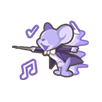
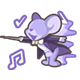
docs(characters): add 音乐家杰瑞 character

diff --git a/src/data/mouseCharacters.ts b/src/data/mouseCharacters.ts
@@ -1326,6 +1326,173 @@ const mouseCharacterDefinitions: Record<string, CharacterDefinition> = {
     ],
   },
 
+  /* ----------------------------------- 音乐家杰瑞 ----------------------------------- */
+  音乐家杰瑞: {
+    description:
+      '他是艺术的宠儿，音乐家杰瑞拥有优雅帅气的外表，他精湛的技艺能够指挥乐队演绎世界上最华丽的乐章，那些或舒缓、或激昂的音乐不断撩动观众的心弦，激起人们内心深处的灵魂共鸣。',
+    maxHp: 99,
+    attackBoost: 10,
+    hpRecovery: 1,
+    moveSpeed: 600,
+    jumpHeight: 400,
+    cheesePushSpeed: 3.5,
+    wallCrackDamageBoost: 1,
+    mousePositioningTags: [
+      {
+        tagName: '救援',
+        isMinor: false,
+        description: '可利用二级被动快速将老鼠救下火箭。',
+        additionalDescription: '但在此期间容易吃到控制导致礼服被断。',
+      },
+      {
+        tagName: '干扰',
+        isMinor: false,
+        description: '利用一级被动可以造成大量伤害和拦截猫上火箭。',
+        additionalDescription: '被知识卡-皮糙肉厚大大克制。',
+      },
+      {
+        tagName: '辅助',
+        isMinor: true,
+        description: '主动技能可以带来不错的团队收益。',
+        additionalDescription: '',
+      },
+      {
+        tagName: '砸墙',
+        isMinor: true,
+        description: '利用三级被动可快速破墙。',
+        additionalDescription: '若4只老鼠均在墙缝附近可以技能全交做到秒破。',
+      },
+    ],
+
+    skillAllocations: [
+      {
+        id: '',
+        pattern: '0210(2)2011',
+        weaponType: 'weapon1',
+        description:
+          '加点灵活。五级时若奶酪位被放飞可先点二级协奏补推。二级礼服增加拆火箭难度，应将加点留到七级，直接升到三级礼服。',
+        additionaldescription:
+          '若进入墙缝战时未满8级或猫咪破盾能力强，可舍弃三级礼服点三级被动及二级协奏。',
+      },
+    ],
+    knowledgeCardGroups: [
+      {
+        cards: ['S-铁血', 'S-舍己', 'B-精准投射', 'B-夹不住我', 'C-救救我'],
+        description:
+          '利用精准投射快速刷新礼服CD，速炸火箭，让猫短时间内绑不上火箭，夹不住我可配合2级协奏音符速破夹子。',
+      },
+      {
+        cards: ['S-铁血', 'S-舍己', 'B-绝地反击', 'C-救救我', 'C-不屈'],
+        description:
+          '知识量不足可带本套卡组。绝地反击可配合共鸣冲击波快速打出高额伤害，不屈增加自保，可换成夹不住我。',
+      },
+      {
+        cards: ['S-铁血', 'S-舍己', 'S-缴械', 'C-救救我'],
+        description: '进一步增强救援能力。队中没有尼宝且沟通得当时，可将救救我换为绝地反击。',
+      },
+      {
+        cards: ['S-铁血', 'S-舍己', 'B-幸运', 'C-脱身'],
+        description: '幸运流通用卡组。',
+      },
+      {
+        cards: ['S-铁血', 'S-无畏', 'A-投手', 'C-救救我'],
+        description: '斯飞专用卡组，特技可以带干扰投掷。',
+      },
+    ],
+
+    skills: [
+      {
+        name: '风格骤变',
+        type: 'active',
+        description: '根据演奏风格给予周围友方增益效果。使用技能可切换风格。',
+        detailedDescription:
+          '根据演奏风格给予周围友方增益效果。使用技能可切换风格，切换时音乐家杰瑞会同时保持上一种风格8秒。点出该技能时风格为协奏。',
+        canMoveWhileUsing: false,
+        canUseInAir: true,
+        cancelableSkill: '可被打断', // FIXME
+        cancelableAftercast: '可通过道具键*或跳跃键取消后摇',
+        videoUrl: 'https://www.bilibili.com/video/BV1UDiKeSE63?t=408.2',
+        skillLevels: [
+          {
+            level: 1,
+            description: '狂想：提升攻击力。\n协奏：获得Hp恢复和加速。',
+            detailedDescription: '狂想：提升15点攻击力。\n协奏：获得2.5/s的Hp恢复和12%加速。',
+            cooldown: 15,
+          },
+          {
+            level: 2,
+            description: '狂想：额外给予击中敌方时回复Hp的效果。\n协奏：额外提升推速和交互速度。',
+            detailedDescription:
+              '狂想：额外给予击中敌方时回复10Hp的效果。\n协奏：额外提升30%推速和18%交互速度。',
+            cooldown: 15,
+          },
+          {
+            level: 3,
+            description:
+              '狂想：额外降低[技能CD](特技与机器鼠技能不生效)。\n协奏：额外降低周围火箭燃烧速度。',
+            detailedDescription:
+              '狂想：额外降低18%[技能CD](特技与机器鼠技能不生效)。\n协奏：额外降低50%周围火箭燃烧速度，不可叠加。',
+            cooldown: 15,
+          },
+        ],
+      },
+      {
+        name: '幻风礼服',
+        type: 'weapon1',
+        description:
+          '进行一场忘我演奏，期间获得20点减伤、可通过移动键来进行3次位移。不可交互，可丢道具。',
+        detailedDescription:
+          '进行一场忘我演奏，期间获得20点减伤、可通过移动键来进行最多3次快速位移。不可交互，可丢道具。',
+        canMoveWhileUsing: false,
+        canUseInAir: true,
+        cancelableSkill: '可被道具键*打断', // FIXME
+        cancelableAftercast: '无后摇', //FIXME
+        videoUrl: 'https://www.bilibili.com/video/BV1UDiKeSE63?t=286.4',
+        skillLevels: [
+          {
+            level: 1,
+            description: '',
+            cooldown: 18,
+          },
+          {
+            level: 2,
+            description: '位移距离和速度提升。提高了拆火箭的难度，故一般与三级礼服一起加点。',
+            cooldown: 18,
+          },
+          {
+            level: 3,
+            description: '使用技能时获得2层护盾，持续7秒。',
+            cooldown: 18,
+          },
+        ],
+      },
+      {
+        name: '共鸣',
+        type: 'passive',
+        videoUrl: 'https://www.bilibili.com/video/BV1UDiKeSE63?t=543.5',
+        skillLevels: [
+          {
+            level: 1,
+            description:
+              '使用技能会触发共鸣冲击波，共鸣范围内可对敌方造成伤害并减速。共鸣叠加3层时对敌方造成僵直（可救下猫咪手中的老鼠）。',
+            detailedDescription:
+              '使用技能会触发共鸣冲击波(音乐家杰瑞自身2层，范围内队友1层)，共鸣范围内可对敌方造成10点伤害并减速3秒。共鸣叠加3层时对敌方造成1秒僵直（可救下猫咪手中的老鼠；内置CD：10秒），僵直期间猫咪不会受到任何伤害及控制。',
+          },
+          {
+            level: 2,
+            description: '5秒内对火箭造成5次共鸣后会摧毁火箭。',
+            detailedDescription: '5秒内对火箭造成5次共鸣后会摧毁火箭。被摧毁的火箭60秒后恢复。',
+          },
+          {
+            level: 3,
+            description: '共鸣对墙缝造成伤害。',
+            detailedDescription: '共鸣对墙缝造成2.9%伤害，但不对泡泡造成伤害。',
+          },
+        ],
+      },
+    ],
+  },
+
   /* ----------------------------------- 蒙金奇 ---------------------------------- */
   蒙金奇: {
     description: '军团指挥官蒙金奇。',

diff --git a/src/data/contributors.ts b/src/data/contributors.ts
@@ -117,6 +117,29 @@ export const contributors: Contributor[] = [
     ],
   },
   {
+    id: 'ruomeng',
+    name: '若梦',
+    url: 'https://space.bilibili.com/3537122405386648',
+    roles: [
+      {
+        type: RoleType.ContentWriter,
+        characters: ['音乐家杰瑞'],
+      },
+    ],
+  },
+  {
+    id: 'leshanhaoshi',
+    name: '乐善好施陈阿姨',
+    url: 'https://space.bilibili.com/418408689',
+    roles: [
+      {
+        type: RoleType.ContentWriter,
+        characters: ['音乐家杰瑞'],
+        isMinor: true, // knowledge card & skill allocation only
+      },
+    ],
+  },
+  {
     id: 'dreamback',
     name: '梦回_淦德蒸蚌',
     url: 'https://space.bilibili.com/1193776217',

diff --git a/README.md b/README.md
@@ -177,7 +177,7 @@
 - [梦回\_淦德蒸蚌](https://space.bilibili.com/1193776217)、[是莫莫喵](https://space.bilibili.com/443541296) 提供测试数据
 - [凡叔哇](https://space.bilibili.com/273122087) 分享图片素材
 - [海阔天空](https://github.com/3swordman) 进行项目开发
-- [海阔天空](https://github.com/3swordman)、[追风汤姆](https://space.bilibili.com/3493135485241940)、[隔壁老米LM](https://space.bilibili.com/3493090618771682)、音乐家杰瑞、[雨狼嗷嗷](https://space.bilibili.com/3546721078479411)、你小睿大帝、[冰美式](https://space.bilibili.com/439320147) 撰写角色文案
+- [海阔天空](https://github.com/3swordman)、[追风汤姆](https://space.bilibili.com/3493135485241940)、[隔壁老米LM](https://space.bilibili.com/3493090618771682)、音乐家杰瑞、[雨狼嗷嗷](https://space.bilibili.com/3546721078479411)、你小睿大帝、[冰美式](https://space.bilibili.com/439320147)、[若梦](https://space.bilibili.com/3537122405386648)、[乐善好施陈阿姨](https://space.bilibili.com/418408689) 撰写角色文案
 
 ---
 
